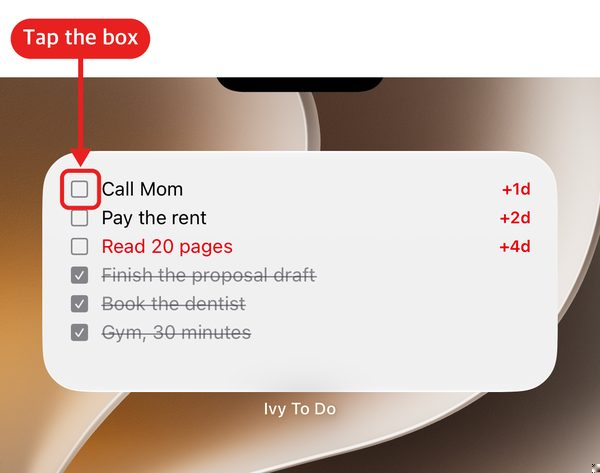
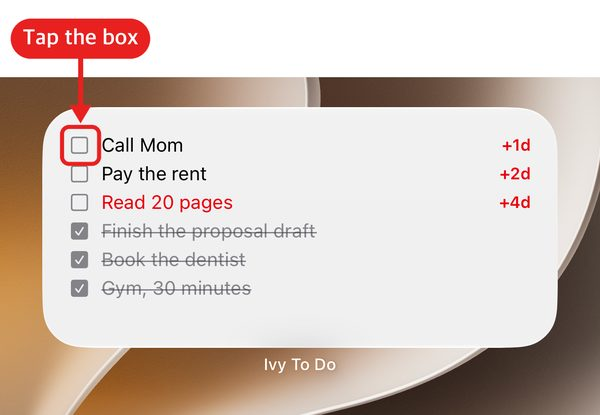
fix(blog): 위젯 글 맨 위 그림에서 다이내믹 아일랜드 조각을 잘라 내고, 확인 못 한 버튼 이름을 iOS 27 한정으로

diff --git a/content/blog/to-do-list-widget-iphone/index.md b/content/blog/to-do-list-widget-iphone/index.md
@@ -8,18 +8,18 @@ app: ivy-todo
 To add a to-do list widget on iPhone, touch and hold an empty spot on your Home Screen, tap **Edit**, then **Add Widget**, and pick your to-do app. Today's tasks then sit on your Home Screen, and on iOS 17 or later you can check them off right on the widget.
 
 <div class="shots one">
-<figure><img src="ivy-widget-home.jpg" alt="iPhone Home Screen with a medium Ivy To Do widget listing six tasks: Call Mom +1d, Pay the rent +2d, Read 20 pages +4d, and three checked-off tasks below" width="600" height="395" loading="lazy"><figcaption>A to-do list widget on the Home Screen</figcaption></figure>
+<figure><img src="ivy-widget-home.jpg" alt="iPhone Home Screen with a medium Ivy To Do widget listing six tasks: Call Mom +1d, Pay the rent +2d, Read 20 pages +4d, and three checked-off tasks below" width="600" height="338" loading="lazy"><figcaption>A to-do list widget on the Home Screen</figcaption></figure>
 </div>
 
 ## How to add a to-do list widget on iPhone
 
 We make [Ivy To Do](/apps/ivy-todo/), a daily to-do list for iPhone. Its widget is free. Install the app and add a task or two first, so the widget has something to show.
 
-1. Touch and hold an empty spot on your Home Screen until the apps jiggle. Tap **Edit** (the brush button at the top left).
+1. Touch and hold an empty spot on your Home Screen until the apps jiggle. Tap **Edit** at the top left (a brush button on iOS 27).
 2. Tap **Add Widget**.
 3. Scroll the list and tap **Ivy To Do**.
 4. Swipe left or right to pick a size, then tap **Add Widget**.
-5. Drag the widget where you want it and tap **Done** (the check mark at the top right).
+5. Drag the widget where you want it and tap **Done** at the top right (a check mark on iOS 27).
 
 <div class="shots">
 <figure><img src="ivy-widget-step1-edit.jpg" alt="Home Screen in edit mode with the brush button at the top left marked 1, Edit" width="600" height="623" loading="lazy"><figcaption>1. Touch and hold, then tap Edit</figcaption></figure>
@@ -51,15 +51,15 @@ Medium fits six tasks, which is the number [the Ivy Lee Method](/blog/ivy-lee-me
 Tap the box next to a task. It gets a check mark and moves below the tasks still open, so what's left is always on top. Tap the task name instead to open the app on Today.
 
 <div class="shots">
-<figure><img src="ivy-widget-check.jpg" alt="Ivy To Do widget with the box next to Call Mom marked: Tap the box" width="600" height="473" loading="lazy"><figcaption>Tap the box next to a task</figcaption></figure>
-<figure><img src="ivy-widget-checked.jpg" alt="The same widget after the tap: Pay the rent and Read 20 pages on top, Call Mom checked off and moved down" width="600" height="395" loading="lazy"><figcaption>Done tasks move down</figcaption></figure>
+<figure><img src="ivy-widget-check.jpg" alt="Ivy To Do widget with the box next to Call Mom marked: Tap the box" width="600" height="415" loading="lazy"><figcaption>Tap the box next to a task</figcaption></figure>
+<figure><img src="ivy-widget-checked.jpg" alt="The same widget after the tap: Pay the rent and Read 20 pages on top, Call Mom checked off and moved down" width="600" height="338" loading="lazy"><figcaption>Done tasks move down</figcaption></figure>
 </div>
 
 The red **+2d** badge means a task has waited two days. Ivy To Do moves anything you don't finish to tomorrow on its own, so the widget never shows yesterday's leftovers as a separate list.
 
 ## Can I put my to-do list on the Lock Screen?
 
-Yes. Touch and hold the Lock Screen, tap **Customize**, then add Ivy To Do under the clock. It shows what's left as a short list, or as a ring like 2/6.
+Yes. Customize your Lock Screen and add Ivy To Do to the widget row under the clock. It shows what's left as a short list, or as a ring like 2/6.
 
 <div class="shots one">
 <figure><img src="ivy-lock-screen.jpg" alt="iPhone Lock Screen at 23:00 with an Ivy To Do widget under the clock listing Gym, 30 minutes, Call Mom, Pay the rent and Read 20 pages" width="460" height="1000" loading="lazy"><figcaption>The Lock Screen widget (Plus)</figcaption></figure>
